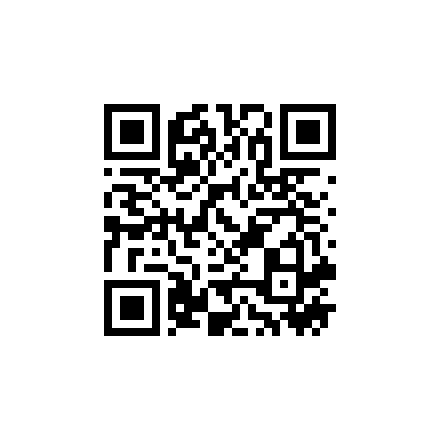
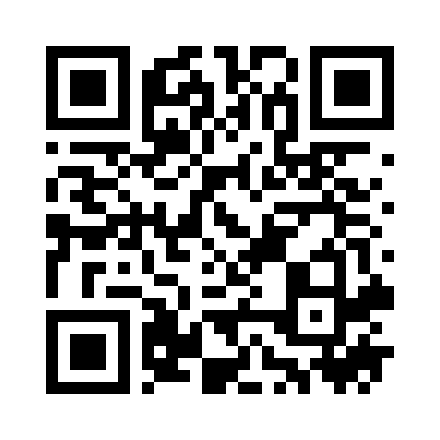
fix(onboarding): tighten QR quiet zone and add official App Store badge
二维码静区从 10-12 模块收紧到约 2 模块，去掉过大的白边；二维码下方加入
Apple 官方 App Store 徽章（浅色外观用 black 变体、深色外观用 white 变体），
徽章取自 Apple Marketing Tools 官方资源，原样缩放使用。

diff --git a/Sources/RemoteMic/OnboardingView.swift b/Sources/RemoteMic/OnboardingView.swift
@@ -2560,6 +2560,13 @@ struct OnboardingView: View {
                     .frame(width: 220, height: 220)
                     .padding(8)
                     .background(Color.white, in: RoundedRectangle(cornerRadius: 16))
+                if let storeBadge = appStoreBadgeImage {
+                    Image(nsImage: storeBadge)
+                        .resizable()
+                        .scaledToFit()
+                        .frame(height: 52)
+                        .accessibilityLabel(Text(verbatim: "App Store"))
+                }
                 Text(verbatim: localization.text("onboarding.iphone_remote.appstore_qr"))
                     .font(.system(size: 15, weight: .semibold))
                     .multilineTextAlignment(.center)
@@ -3472,15 +3479,32 @@ struct OnboardingView: View {
     /// 官方 App Store 下载二维码（随仓库交付，不在运行时生成）。
     /// 语言判定与 `AppLinks.iOSAppStore(for:)` 保持一致，保证二维码内容与左栏下载入口指向同一链接。
     private var appStoreDownloadQRCode: NSImage? {
-        let language = localization.locale.identifier.lowercased().hasPrefix("zh") ? "zh-hans" : "en"
         guard let url = RemoteMicResourceBundle.mainOrDevelopment.url(
-            forResource: "appstore-download-qr-\(language)",
+            forResource: "appstore-download-qr-\(appStoreResourceLanguage)",
             withExtension: "png",
             subdirectory: "Onboarding"
         ) else {
             return nil
         }
         return NSImage(contentsOf: url)
+    }
+
+    /// Apple 官方 App Store 徽章：浅色外观用 black 变体，深色外观用 white 变体。
+    private var appStoreBadgeImage: NSImage? {
+        let appearance = colorScheme == .dark ? "dark" : "light"
+        guard let url = RemoteMicResourceBundle.mainOrDevelopment.url(
+            forResource: "appstore-badge-\(appStoreResourceLanguage)-\(appearance)",
+            withExtension: "png",
+            subdirectory: "Onboarding"
+        ) else {
+            return nil
+        }
+        return NSImage(contentsOf: url)
+    }
+
+    /// 与 `AppLinks.iOSAppStore(for:)` 同一判定规则。
+    private var appStoreResourceLanguage: String {
+        localization.locale.identifier.lowercased().hasPrefix("zh") ? "zh-hans" : "en"
     }
 
     private func selectVoiceTool(_ tool: OnboardingVoiceTool) {
